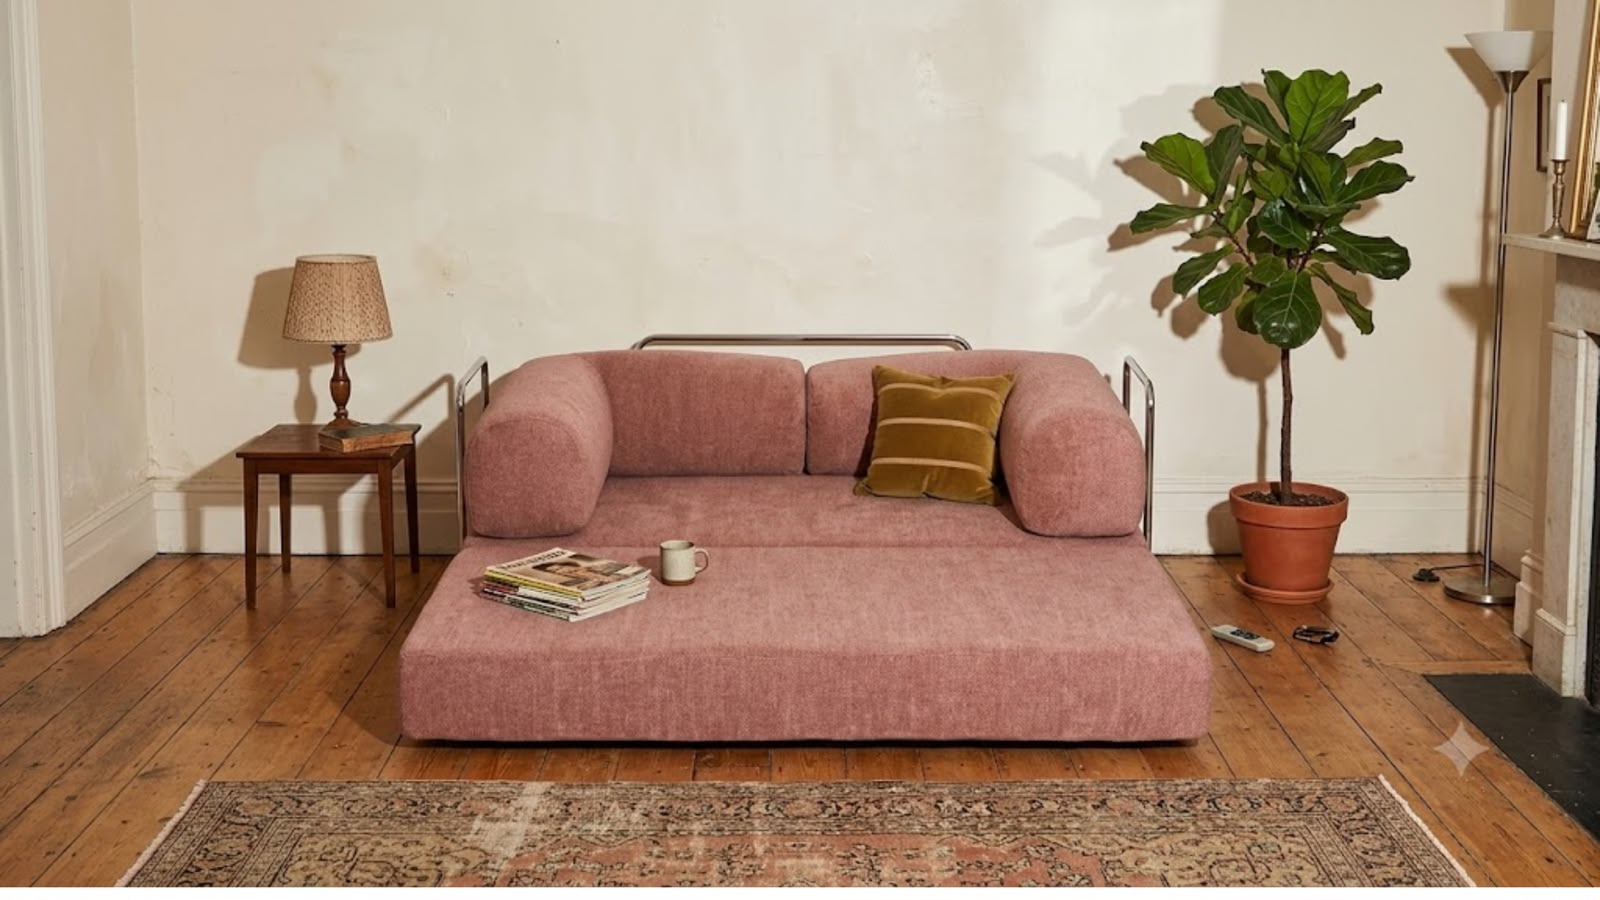
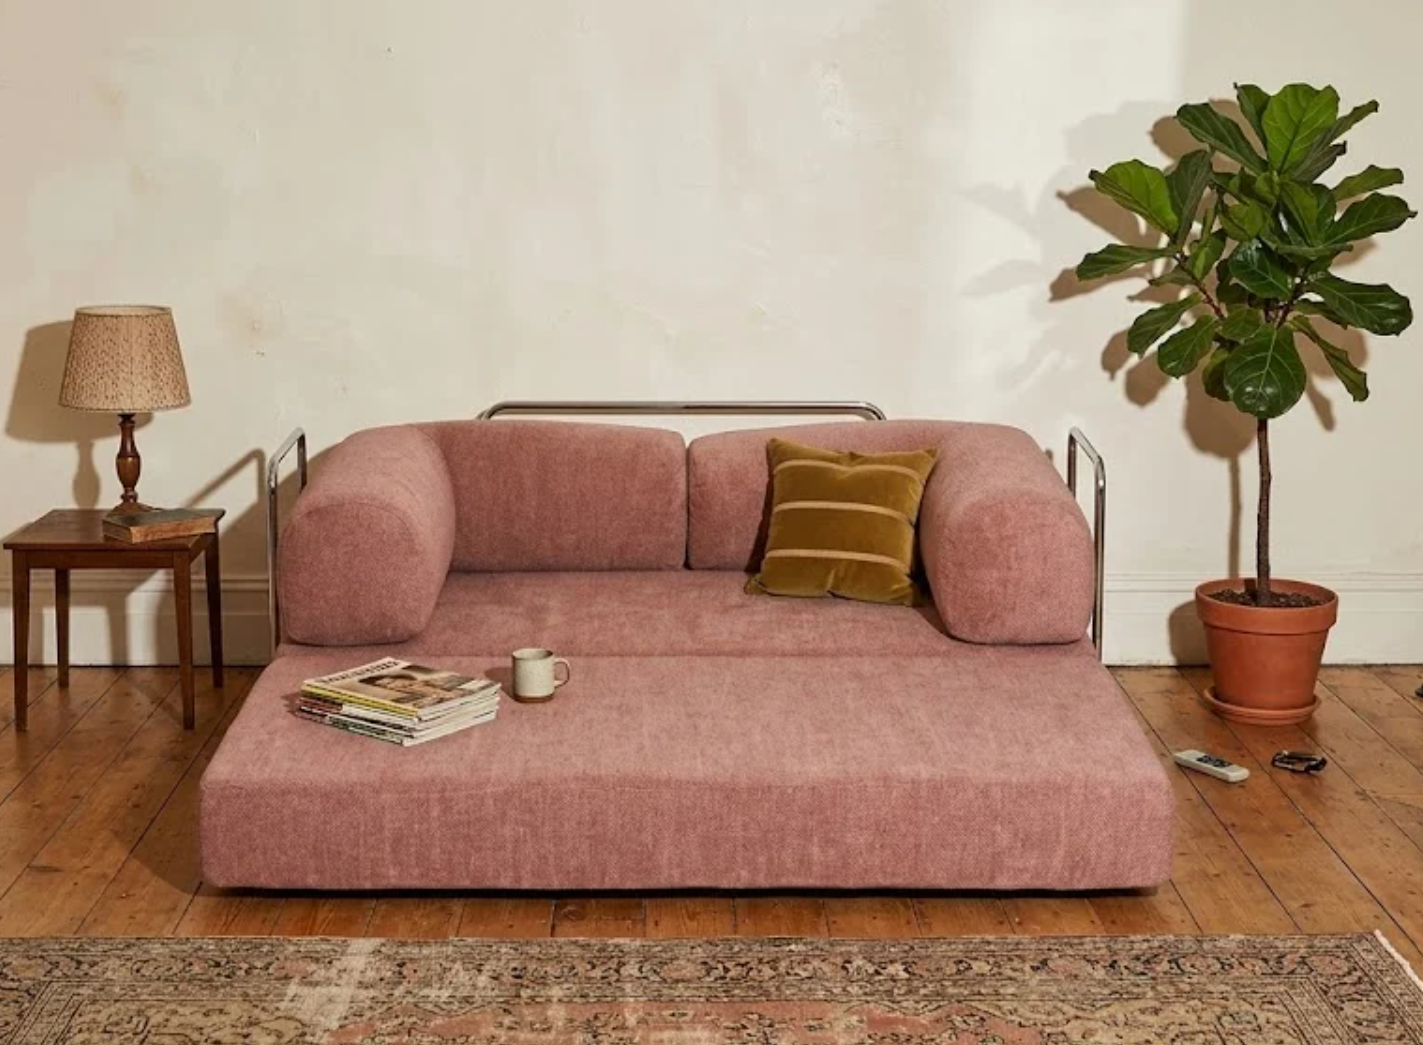
Minor changes

diff --git a/customise.html b/customise.html
@@ -46,7 +46,7 @@
     <a class="btn"
       href="https://wa.me/919632732949?text=Hey%2C%20I%27m%20looking%20to%20customise%20a%20sofa%20set">Speak to our
       designer on WhatsApp</a>
-    <img class="cover" src="/assets/img/customise.png" alt="Custom sofa in a living room">
+    <img class="cover" src="/assets/img/moss-4.png" alt="Custom sofa in a living room">
     <p class="lead">All URU furniture comes with a 5-year warranty and can be customised in any fabric.</p>
   </main>
 
